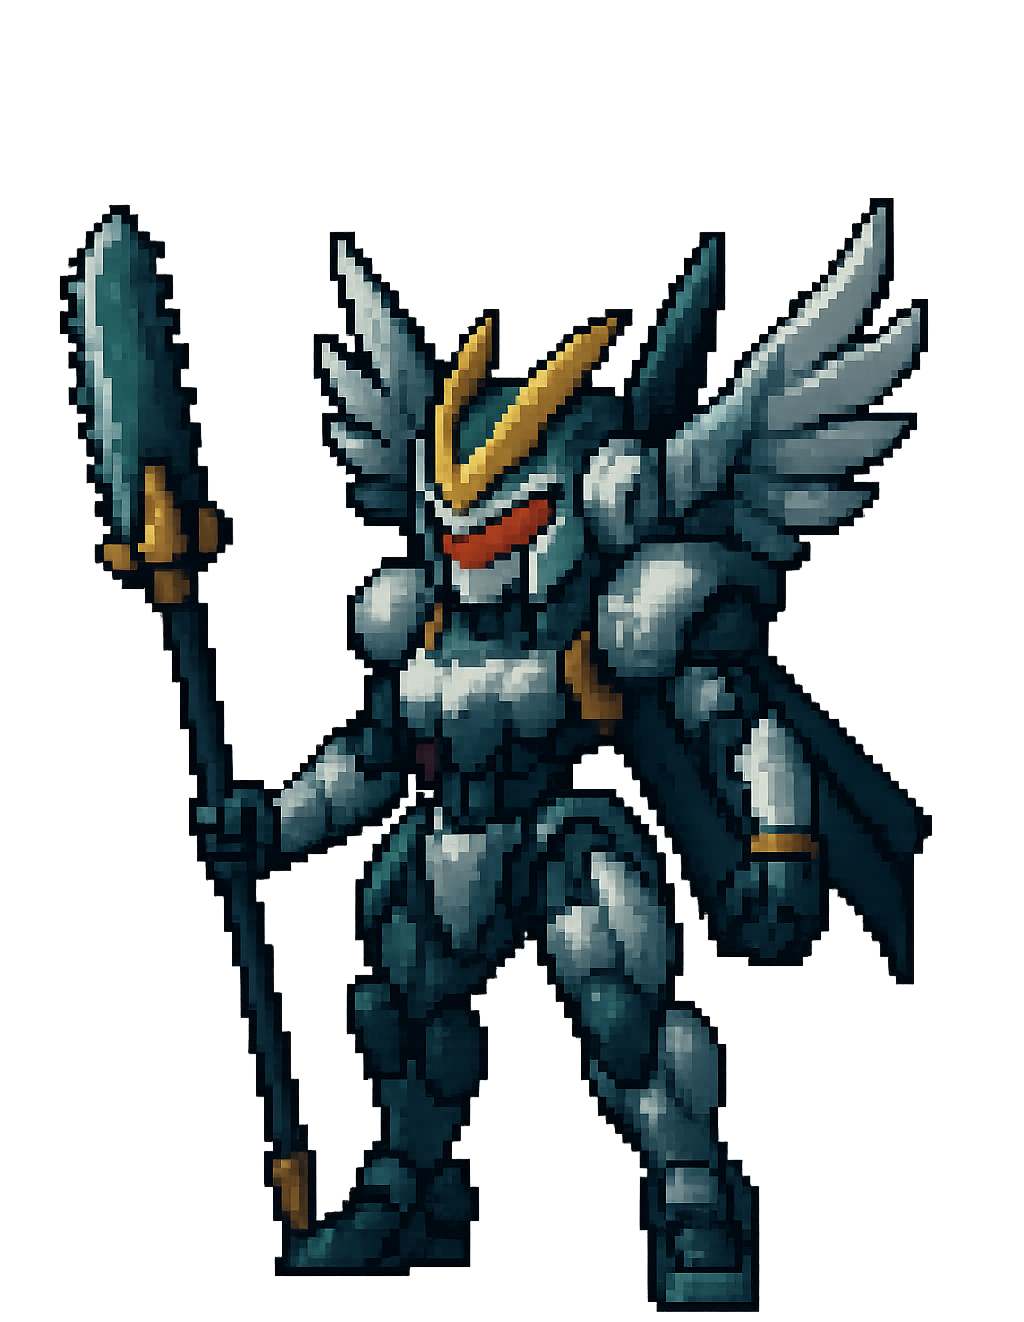
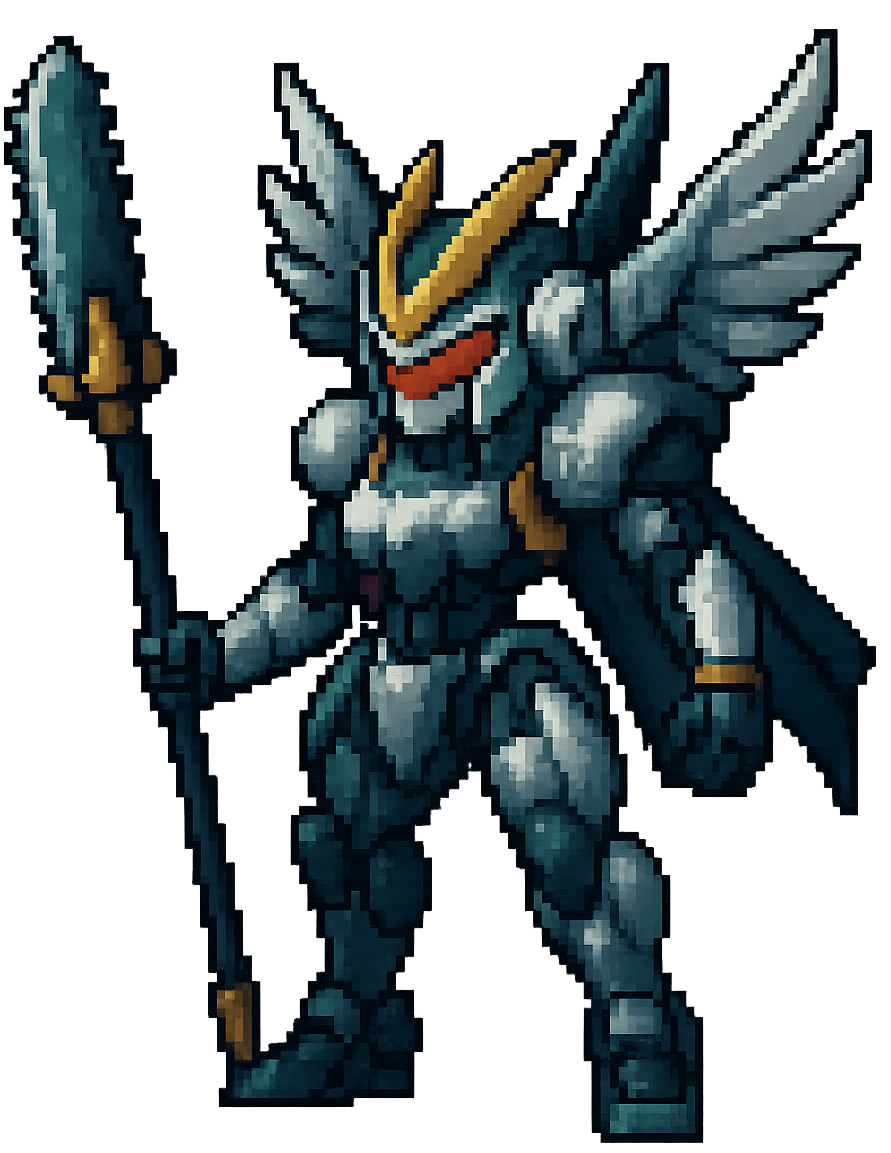
correção nas img

diff --git a/js/batalha.js b/js/batalha.js
@@ -568,7 +568,7 @@ const enemyModels = [
       behavior: () => [
         { type: Math.random() < 0.5 ? "attackVida" : "heal", value: Math.random() < 0.7 ? 5 : 10 }
       ],
-      img: "../img/jogo/inimigos/coisa.webp",
+      img: "../img/jogo/inimigos/amalgama.png",
       tipoDano: "(🔱❓💊)💥",
       tipoVida: "❤"
     }
